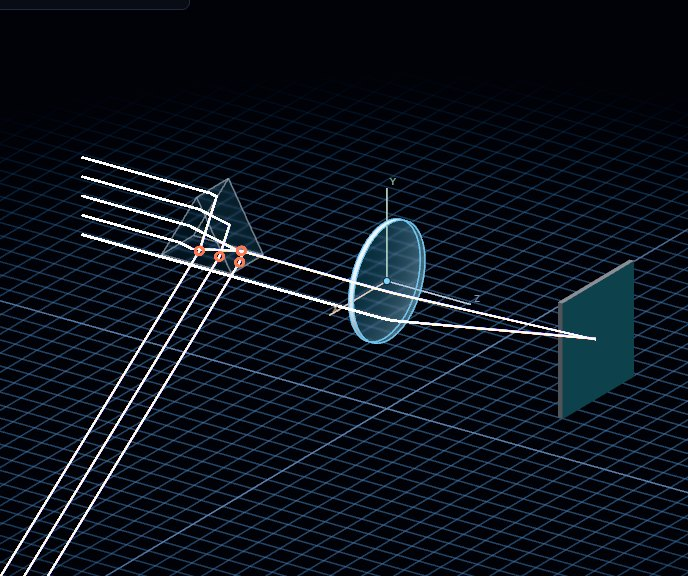
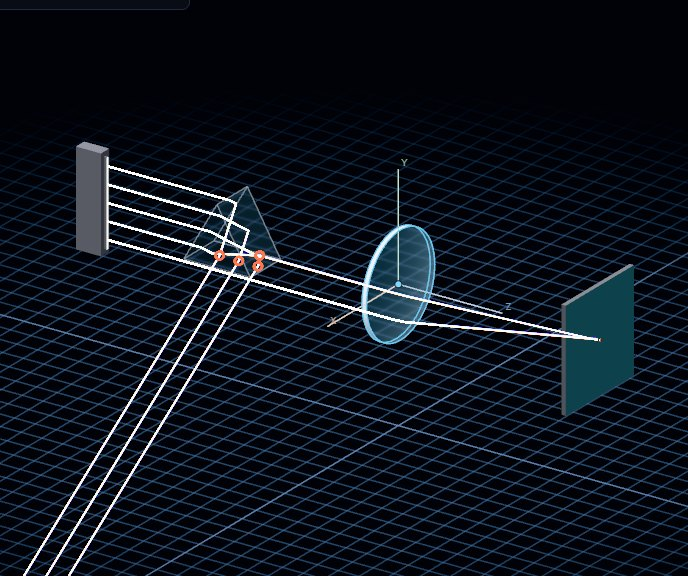
docs: 3D view follow-up in the renderer report
The hit maps, source glyphs, saved settings and ray width, with their
limitations, the wide-ray cost on the 4-lens ghost scene, new bundle sizes,
the validation run (now including the Python bridge job), and re-captured
screenshots. The README mentions the new view features.

diff --git a/docs/3d-renderer-implementation-report.md b/docs/3d-renderer-implementation-report.md
@@ -2,6 +2,8 @@
 
 This report covers the solid 3D renderer that replaces the Canvas 2D wireframe in the 3D model view (branch `3d-solid-renderer`, from `main` at `bf06b13`). It follows §76 of the implementation specification. The numbers come from the benchmark and test suites in this branch, run on the development machine: Windows 11, an NVIDIA RTX 5070, and Chrome 153.
 
+A second round on the same branch added detector hit maps, light-source glyphs, saved view settings, and a ray width setting. [Follow-up](#follow-up-hit-maps-source-glyphs-saved-settings-ray-width) describes them.
+
 Three.js materials give physically plausible display shading, not optical simulation. Nothing in this renderer computes an optical quantity, and nothing it draws is a measurement. Every displayed number still comes from the f64 reference tracer.
 
 ## Baseline (Phase 0)
@@ -40,9 +42,12 @@ Browser (`web/src/render3d/`):
 | `mesh-adapter.ts` | yes | Rust meshes to `BufferGeometry` |
 | `materials.ts` | yes | The shading vocabulary |
 | `environments.ts` | yes | Studio presets, PMREM cache, backgrounds |
-| `rays.ts` | yes | The ray buffer and the light-background ink pass |
+| `rays.ts` | yes | The ray buffer (lines, or strips when wider than 1 px) and the light-background ink pass |
+| `hitmaps.ts` | yes | Detector hit maps from the exact trace's cells |
 | `cues.ts` | yes | Hover and selection cues |
 | `scaffold.ts` | yes | Axes, grid, ground |
+
+`web/src/heat.ts` holds the flux colour ramp that the detector dock and the hit maps share.
 
 `main.ts` chooses the view. The GPU view is the default, and `?renderer=legacy` keeps the old wireframe (`viewport3d.ts`) for comparison. `?render3d=webgl` forces the WebGL2 backend, and `?render3d=off` simulates a browser with no usable renderer. The GPU canvas (`#view3d`) sits under `#view`, which becomes a transparent overlay and still receives the pointer, so the page's DOM ids and event wiring are unchanged.
 
@@ -50,10 +55,13 @@ Browser (`web/src/render3d/`):
 
 - `oc_core::display_mesh` (feature `scene3`) tessellates `Scene3` objects for display. See Geometry.
 - `oc_wasm::render_view` adds two `Canvas` methods:
-  - `renderObjectsJSON()` returns one descriptor per body, surface, aperture and detector: kind, three revisions, visibility, position, quaternion, shading role, front and back roles, display `n_d`, and a picking radius.
+  - `renderObjectsJSON()` returns one descriptor per body, surface, aperture, detector and source: kind, three revisions, visibility, position, quaternion, shading role, front and back roles, display `n_d`, a picking radius, and (for a source) its light's display colour.
   - `renderMesh(id)` returns a `RenderMesh` with `topology()`, `positions()`, `normals()`, `indices()`, `groups()`, `edges()`, `bounds()` and `note()` as typed arrays.
+- The follow-up adds two more:
+  - `lastDetectorMapsF32()` returns the detectors' flux cells from the most recent `traceProjected3D()`.
+  - `sourceObjectsJSON()` lists the sources for the 3D view's object list.
 
-Neither method changes the scene, the tracer, or the `.ocanvas` format.
+None of these methods changes the scene, the tracer, or the `.ocanvas` format.
 
 ### Revisions and the render cache
 
@@ -130,7 +138,7 @@ A 2D-only body (a v1 migration with no authored third dimension) and a profile t
 
 ### Tests
 
-The `display_mesh` tests (14) check:
+The first round's `display_mesh` tests (14) check:
 
 - vertices and normals against the analytic faces, including an even asphere
 - the chord error along a steep meridian
@@ -155,6 +163,9 @@ The `render_view` tests (3) check that each revision moves only with its own con
 | Absorber | Dark, fully rough |
 | Detector faces | Dark teal, mostly specular, light clearcoat; both faces, because the tracer records a crossing from either side |
 | Detector edge | Dark semigloss housing |
+| Detector face with a hit map (follow-up) | The detector finish, with lit cells in the dock's heat colours |
+| Source emitter (follow-up) | Glows in its light's colour |
+| Source housing (follow-up) | Dark satin metal |
 | Slab edge | Neutral grey |
 | No solid (outline) | Dashed orange lines |
 
@@ -194,7 +205,7 @@ Shadows are not implemented. Perspective, occlusion, smooth shading, reflections
   - A segment dimmer than 1e-5 of the brightest is not uploaded.
 - **Buffer:** one interleaved `Float32Array` with 8 floats per vertex: position, linear wavelength colour, relative flux, and ghost flag. It is re-uploaded only when the traced picture changes, and grows by 1.5× when it runs out.
 - **Draw calls:** one `LineSegments` draw for all rays. On light backgrounds there is one more pass (the rays into a half-float target) and one fullscreen quad. The number of scene objects does not grow with the segment count.
-- **Line technique:** 1-pixel lines with 4× MSAA. At the capped pixel ratios they read like the 2D view's lines, so the screen-space strip shader of the spec's Phase B was not built.
+- **Line technique:** 1-pixel lines with 4× MSAA by default. At the capped pixel ratios they read like the 2D view's lines. The follow-up added the spec's Phase B strips as a user setting for wider rays (see Follow-up).
 - **Dark backgrounds:** additive, as in the 2D view. Overlapping wavelengths sum toward white, dispersion shows as colour, and ghosts stay dim. Ghost gain (the 2D control ×8) is a shader uniform, so changing it uploads nothing.
 - **Light backgrounds:** additive light cannot show on a light ground. The rays are summed additively in their own pass, and the sum is laid over the scene as ink:
   - opacity follows the summed brightness, compressed as in the 2D view
@@ -212,11 +223,59 @@ Shadows are not implemented. Perspective, occlusion, smooth shading, reflections
 - The HUD stops short of the view toolbar, so a long status line wraps instead of running under the toolbar.
 - Hover changes the cursor.
 - Selection adds a faint glow and a cyan outline and keeps the object's material. The cyan centre dot remains the drag handle.
-- View settings are local UI state. They are not saved and not written to `.ocanvas`.
+- View settings are display state. In the first round they were not saved. The follow-up remembers them in the browser. They are never written to `.ocanvas`.
+
+## Follow-up: hit maps, source glyphs, saved settings, ray width
+
+### Detector hit maps
+
+Each area detector's face shows its incident-flux cells, the same cells and colours as the detector dock's heatmap ([hit-map.jpg](3d-renderer/hit-map.jpg)).
+
+- **Source of the cells:** `traceProjected3D()` already runs the f64 trace for the rays, and the same trace fills every detector's cells. The call keeps them, and `lastDetectorMapsF32()` hands them over. The map therefore costs no second trace. A Rust test checks that the cells equal `detectorResultJSON().incident`.
+- **Drawing:** one `nu × nv` texture per detector, one texel per cell, nearest filtering, so cells stay cells. The face is the detector's local XY plane, so the shader reads a fragment's cell straight from its local position. No UV channel was added to the mesh.
+- **Scale and colour:** each detector is scaled to its own peak, as the dock is. Empty cells show the plain face. `web/src/heat.ts` holds the ramp, shared with the dock.
+- **Staleness:** a map belongs to one exact trace. While a drag shows the interactive preview, or once the scene has changed since that trace, the maps are hidden until the next exact trace.
+- **Material:** the per-detector material replaces only the active-face slot, through a slot override in the render cache that survives restyles. A detector's first map compiles its shader before the frame that shows it.
+- **Toggle:** "hit maps" in the bottom bar, on by default.
+
+The picture is a view of the readout, not a number: a sharp focus lights one or two cells, as the dock shows it.
+
+### Light-source glyphs
+
+The source used to be invisible, so rays began in empty space. Each source now has a glyph ([source-glyph.jpg](3d-renderer/source-glyph.jpg)):
+
+- **Emitter:** a thin plate the size and shape of the emitting aperture (rectangle or disc). Its front face lies exactly in the emission plane, so no drawn ray starts inside it. A point source is a 1 mm ball.
+- **Housing:** a box or cylinder behind the aperture, a little wider than it (a stem for a point source). It has no size in the scene; the tracer does not see it.
+- **Colour:** the emitter glows in its light's colour, the weighted sum of its lines' ray colours. A white beam is white, and the fold demo's orange line is orange.
+- **Legacy sources:** a legacy line source has no area and is drawn as its line, with a note.
+- **Editing:** sources are selectable, draggable and turnable in the 3D view, through the setters that already took any object id. Their card shows position and tilt. `sourceObjectsJSON()` lists them for this view only; the 2D cross-section draws no glyph, so its object list is unchanged.
+- **Revisions:** geometry follows the spatial and angular distribution, material follows the spectrum.
+- **Tests:** a Rust test checks that the glyph is closed, lies behind the emission plane for both directions, and has its emitter in the plane at the aperture's size. A browser test checks that the exact rays start on the moved glyph's face.
+
+### Saved view settings
+
+Lighting, background, exposure, ray visibility, ray width, hit maps, ground and projection are kept in `localStorage` under `optiland-canvas:view3d`:
+
+- A reload restores them, including the perspective button's state.
+- Each field is checked on load. An unknown or out-of-range value falls back to its default, and unreadable storage (a private window, damaged JSON) gives the defaults.
+- They are browser preferences, not part of the scene or its file.
+
+### Ray width
+
+A "width" slider sets the ray line width from 1 to 6 px (CSS pixels) ([wide-rays.jpg](3d-renderer/wide-rays.jpg)):
+
+- **At 1 px:** the GPU lines as before.
+- **Wider:** one instanced screen-facing quad per segment. Each quad is placed in clip space around its segment, as three.js's `Line2` does, and cut at the near plane in perspective. It has a one-pixel soft edge.
+- **Draw calls:** one, the same as for lines. The material draws both faces in a single pass.
+- **Brightness:** additive and ink rendering, ghost gain and occlusion work as for lines. Brightness per pixel scales by 1/√width, so dense bundles stay readable.
+- **Units:** the width is in CSS pixels, so it holds while a drag lowers the pixel ratio.
+- **Performance:** on the 4-lens ghost scene (118,936 segments), GPU time per frame was 1.6 ms at 1 px, 2.2 ms at 2 px and 3.3 ms at 4 px.
 
 ## Performance
 
 `OC_BENCH=1 npx playwright test --project=bench` (`web/tests/render3d-bench.spec.ts`) writes `test-results/render3d-bench.{json,md}`. The run below used Chrome 153 on the WebGPU backend, a 1600 × 900 viewport, and pixel ratio 1.
+
+These tables were recorded before the follow-up. It adds one object per scene (the source glyph: two more draw calls and a few hundred triangles) and one texture per detector; the wide-ray costs are under Follow-up.
 
 For the GPU view:
 
@@ -276,11 +335,11 @@ GPU resources return to the same counts after adds, deletes and curvature edits.
 
 **Bundle:**
 
-| Asset | Before | After |
-|---|---:|---:|
-| Main JS | 127,091 B (38,894 gzip) | 149,824 B (45,964 gzip) |
-| Renderer chunk (lazy; three.js and render3d) | none | 911,568 B (249,571 gzip) |
-| wasm | 2,199,249 B | 2,310,891 B |
+| Asset | Before | After | After the follow-up |
+|---|---:|---:|---:|
+| Main JS | 127,091 B (38,894 gzip) | 149,824 B (45,964 gzip) | 153,020 B (46,924 gzip) |
+| Renderer chunk (lazy; three.js and render3d) | none | 911,568 B (249,571 gzip) | 918,654 B (251,273 gzip) |
+| wasm | 2,199,249 B | 2,310,891 B | 2,322,541 B |
 
 The three.js WebGPU build does not tree-shake well; almost all of the lazy chunk is three.js. The addons that import the classic `three` build (`RoomEnvironment`, `BufferGeometryUtils`) were deliberately avoided, because they would add the WebGL renderer to the chunk.
 
@@ -288,19 +347,21 @@ The three.js WebGPU build does not tree-shake well; almost all of the lazy chunk
 
 ## Validation
 
-- **Rust:** `display_mesh` (14 tests) and `render_view` (3 tests), described under Geometry. With them:
-  - `cargo test --workspace --exclude oc-py`: 575 passed, 7 failed, 3 ignored. The failures are the same `gpu3_vs_cpu3` tests as in the baseline.
-  - `oc-core --features scene3`: 242 passed.
+- **Rust:** `display_mesh` (15 tests with the source glyph), `render_view` (4) and two `Canvas` tests for the detector maps and the source list. With them:
+  - `cargo test --workspace --exclude oc-py`: 579 passed, 7 failed, 3 ignored. The failures are the same `gpu3_vs_cpu3` tests as in the baseline.
+  - `oc-core --features scene3`: 243 passed.
   - `oc-trace --features trace3`: 85 passed, 1 ignored.
-  - Clippy with `-D warnings` is clean on all three CI steps.
-  - These suites cover the spec's regression requirement for the f64 trace, detector results, OPL, the energy ledger, `.ocanvas`, and the Rust half of the Optiland round trip, and they pass unchanged. This work changes none of that code. The Python bridge job (`pytest` against a live Optiland) was not run locally; nothing in `oc-py` or the `.ocanvas` serializer changed.
+  - Clippy with `-D warnings` is clean on all four CI steps, `oc-py` included.
+  - These suites cover the spec's regression requirement for the f64 trace, detector results, OPL, the energy ledger, `.ocanvas`, and the Rust half of the Optiland round trip, and they pass unchanged. This work changes none of that code.
+- **Python bridge:** the CI job (`pip install '.[test]'`, then `pytest` against a live Optiland) was run locally in a Python 3.12 environment: 38 passed.
 - **Browser, CI project:**
-  - `tests/render3d.spec.ts` (15 tests): opening and backend naming; orbit, pan, zoom and reset; presets, perspective and the `0` key; picking and dragging without a mesh rebuild; the card and the 2D/3D selection hand-off; copy, paste, delete and nudge; lighting, background, exposure and ray visibility leaving the saved scene, the exact trace and the detector readout bit-identical; mesh rebuilds only on geometry edits; the ray buffer (every segment, bounded draws, no re-upload for ghost opacity, depth mode changing depth only); quality states; no idle frames; no resource growth; the forced WebGL2 backend; the no-renderer path with the 2D view still working; and the legacy view.
+  - `tests/render3d.spec.ts` (19 tests): opening and backend naming; orbit, pan, zoom and reset; presets, perspective and the `0` key; picking and dragging without a mesh rebuild; the card and the 2D/3D selection hand-off; copy, paste, delete and nudge; lighting, background, exposure and ray visibility leaving the saved scene, the exact trace and the detector readout bit-identical; mesh rebuilds only on geometry edits; the ray buffer (every segment, bounded draws, no re-upload for ghost opacity, depth mode changing depth only); quality states; no idle frames; no resource growth; the forced WebGL2 backend; the no-renderer path with the 2D view still working; and the legacy view.
+  - The follow-up adds four: the source glyph (picked, dragged, rays starting on its face, turned from its card); hit maps (drawn, hidden during a drag, toggled without touching the optics); wide rays (same segments, same draw count, more pixels); and saved settings (restored after a reload, damaged storage ignored field by field).
   - The existing 3D view-controls test now reads the camera and the GPU picture through the `?debug` hooks.
-  - The full suite (56 tests) passes. Headless CI has no WebGPU device, so this suite runs there on the WebGL2 fallback; the same suite passed locally with the GPU disabled and SwiftShader forced as a stand-in for CI.
+  - The full suite (60 tests) passes. Headless CI has no WebGPU device, so this suite runs there on the WebGL2 fallback; the same suite passes locally on Playwright's bundled Chromium, which also lands on WebGL2.
 - **Browser, opt-in:**
-  - `OC_WEBGPU=1 … --project=webgpu` also runs `render3d.spec.ts` on a real device. With Chrome 153 on the RTX 5070, its 17 tests (these 15 plus the 2 WebGPU preview tests) pass.
-  - `OC_VISUAL=1 … --project=visual` compares 10 screenshots (default scene dark and light, prism, fold mirror, aperture with a second detector, overlapping glass, three lenses with ghosts, selected and hovered lens, occluded rays on the bench in perspective, inspection on grey) at 1% pixel tolerance, with the status line masked. The baselines are for this machine (`*-visual-win32.png`) and are stable across runs.
+  - `OC_WEBGPU=1 … --project=webgpu` also runs `render3d.spec.ts` on a real device. With Chrome 153 on the RTX 5070, its 21 tests (these 19 plus the 2 WebGPU preview tests) pass.
+  - `OC_VISUAL=1 … --project=visual` compares 14 screenshots in 12 tests (default scene dark and light, prism, fold mirror, aperture with a second detector, overlapping glass, three lenses with ghosts, selected and hovered lens, occluded rays on the bench in perspective, inspection on grey, wide rays dark and light, a hit map end-on) at 1% pixel tolerance, with the status line masked. The baselines are for this machine (`*-visual-win32.png`), were re-recorded for the follow-up (every scene now shows its source), and are stable across runs.
 - **Backends seen:** WebGPU (Chrome 153 on the RTX 5070), WebGL2 (forced, and three.js's fallback in Playwright's bundled Chromium), SwiftShader software GL, and "unavailable" (simulated).
 
 ## Limitations
@@ -313,9 +374,16 @@ The three.js WebGPU build does not tree-shake well; almost all of the lazy chunk
 - **Selection glow on glass:** the glow is drawn over the glass. On a clear body it tints the whole silhouette slightly, not only the rim.
 - **Light backgrounds:** rays are ink, and the ink's darkness is a display mapping. On a light ground a bright focus reads as dark, not bright.
 - **First use of a lighting preset:** it takes up to about 0.4 s on WebGPU and about 0.5 s on WebGL2 before the new picture appears. The page stays responsive meanwhile.
-- **Ray lines:** 1 pixel wide. On a high-density display at the settled pixel ratio (1.5) they are thinner than CSS pixels.
-- **View plane:** rays are placed in 3D from the projected trace, which assumes the default XY view plane.
-- **Not drawn:** the light source (it is not an object in the scene list). Detector hit maps are not drawn on the detector face.
+- **Ray lines:** 1 pixel wide by default. On a high-density display at the settled pixel ratio (1.5) they are thinner than CSS pixels; the width setting fixes that.
+- **View plane:** rays are placed in 3D from the projected trace, which assumes the default XY view plane. The app has no control that changes the view plane yet.
+- **Hit maps:**
+  - Each detector is scaled to its own peak, so two detectors' colours are not comparable.
+  - Disc and annular detectors are binned over their bounding square, as the tracer bins them, so their outer cells are partly off the face.
+  - A map is hidden during a drag and returns with the next exact trace.
+- **Source glyphs:**
+  - The housing is invented for display.
+  - A source aimed backwards along its local X gets its housing on the other side. Any other aim is drawn as if along +X.
+  - The 2D cross-section still draws no source.
 - **2D-only bodies:** outlines, not solids.
 - **Shadows:** none.
 - **Legacy view:** still in the tree behind `?renderer=legacy`. It should be removed once the GPU view has seen use.
@@ -336,16 +404,19 @@ The three.js WebGPU build does not tree-shake well; almost all of the lazy chunk
 | Rays occluded | [rays-occluded.jpg](3d-renderer/rays-occluded.jpg) |
 | Perspective | [perspective.jpg](3d-renderer/perspective.jpg) |
 | Inspection lighting on grey | [inspection-grey.jpg](3d-renderer/inspection-grey.jpg) |
+| Hit map, end-on, point source | [hit-map.jpg](3d-renderer/hit-map.jpg) |
+| Rays at 3 px, three lenses with ghosts | [wide-rays.jpg](3d-renderer/wide-rays.jpg) |
+| Disc source glyph, selected | [source-glyph.jpg](3d-renderer/source-glyph.jpg) |
 | Before: the Canvas 2D wireframe | [before-wireframe.jpg](3d-renderer/before-wireframe.jpg) |
 
-The WebGL2 fallback looks the same as WebGPU in side-by-side captures, so it has no separate image.
+The images were re-captured after the follow-up, so every scene shows its source. The WebGL2 fallback looks the same as WebGPU in side-by-side captures, so it has no separate image.
 
-## Not done in this milestone
+## Not done
 
-- The screen-space strip shader for rays (Phase B). 1-pixel lines were sufficient.
+The follow-up built strip rays, saved preferences, source glyphs and hit maps. Still open:
+
 - Shadows.
 - Optional HDRI environments.
-- Saving view preferences.
-- A light-source glyph.
-- Detector hit maps on the active face.
+- Order-independent transparency for glass behind glass.
+- A source glyph in the 2D cross-section.
 - Removing the legacy wireframe view.

diff --git a/README.md b/README.md
@@ -28,6 +28,7 @@ Optiland Canvas is a tool for the *ideation* phase of optical design, the part b
 **Interaction**
 - Two views over one scene: a meridional cross-section and an orbitable 3D model. Elements drag, tilt and snap to the grid in either, and the rays retrace while you drag.
 - The 3D model draws the parts as solids: clear glass, mirrors, blackened stops, and detectors, under a choice of four studio lightings and five backgrounds, with rays either drawn over the parts or hidden by opaque ones.
+- In the 3D model, each detector face shows its flux map from the exact trace, and the light source has a glyph you can pick and move. Ray width is adjustable, and the view settings are remembered in the browser.
 - Every parameter has an on-canvas handle and a numeric twin. Drag the handle or scrub the number, and the light follows. No Apply button, no modal dialogs.
 - Pop-up inspector cards (several at once, one per element), an adjustable grid with snapping, copy/paste/delete, per-parameter and whole-element pinning, plus zoom & pan.
 - Add a round element or a fold mirror from the scene dock, and choose the source (collimated, point cone, Lambertian disc) and how densely it samples.
